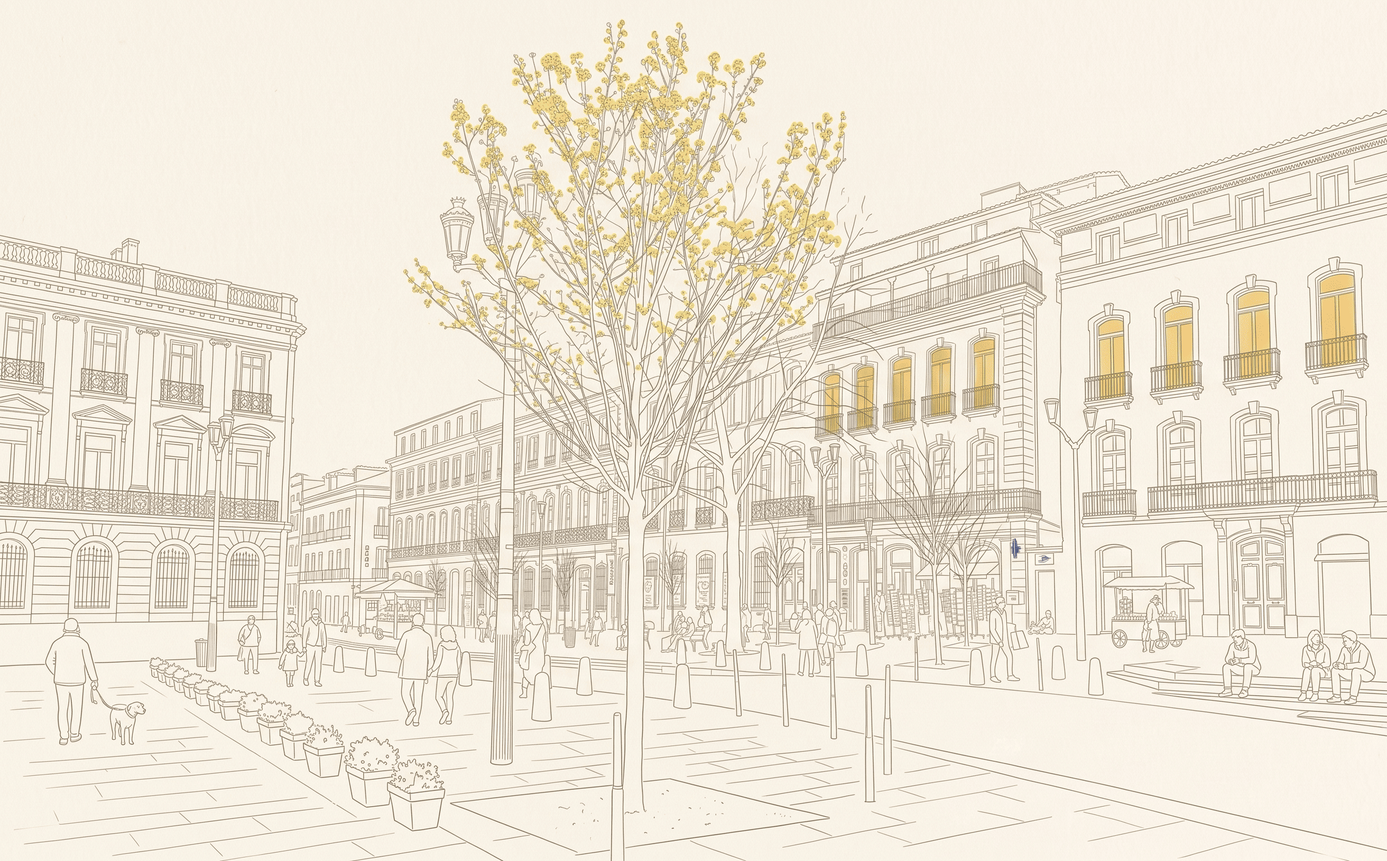
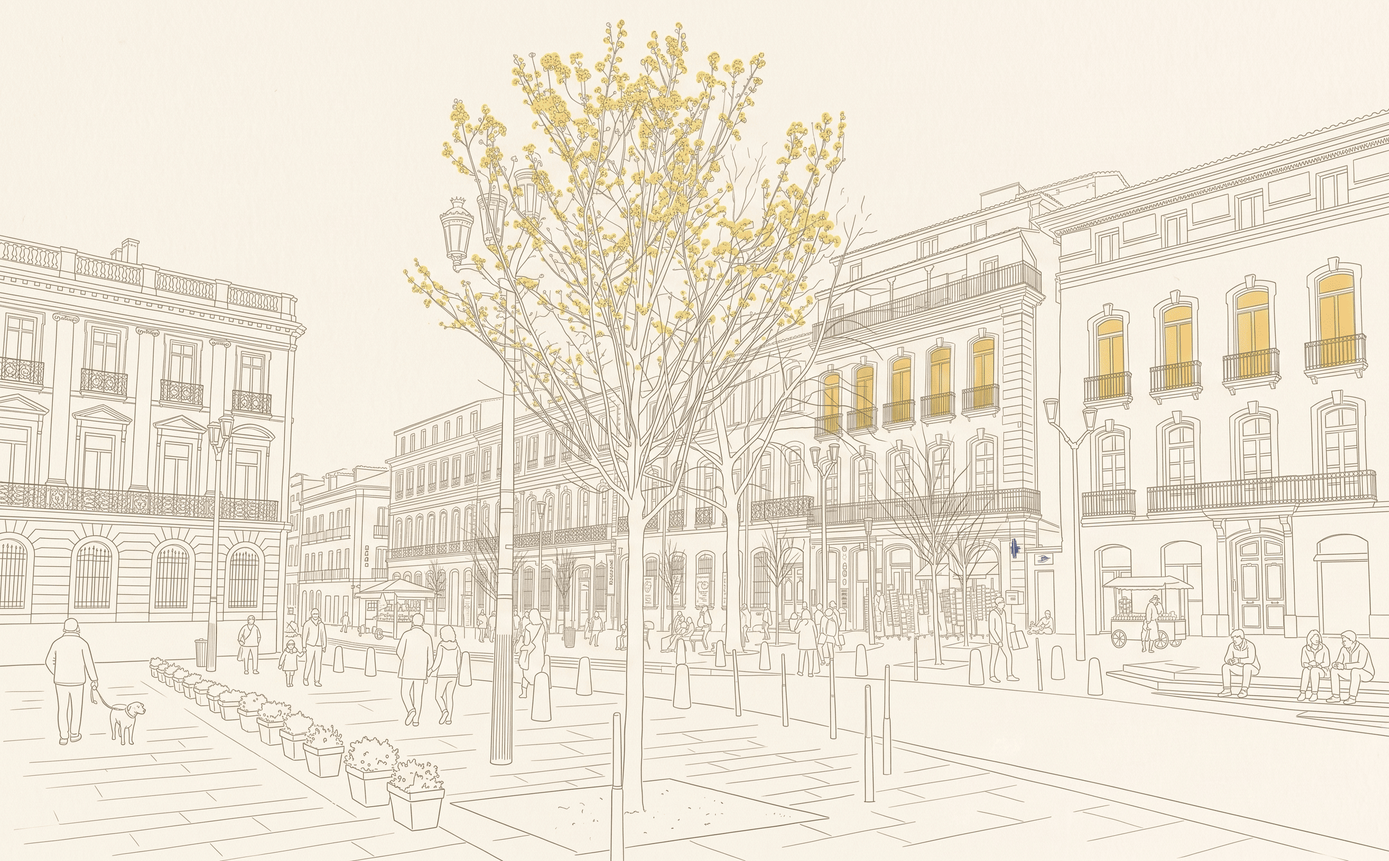
modification de la variable o en f pour le rendu dynamique, test semi production avant infomaniak

diff --git a/app/(site)/qui-suis-je/page.tsx b/app/(site)/qui-suis-je/page.tsx
@@ -6,6 +6,9 @@ import { HomeFooter } from "@/app/components/homepage/HomeFooter";
 import { getSiteNavItems, HomeHeader } from "@/app/components/homepage/HomeHeader";
 import { getPageBySlug, getPageSection } from "@/lib/payload-server";
 
+// Contenu géré dans /admin : rendu à chaque requête pour éviter de figer une ancienne version au build.
+export const revalidate = 0;
+
 export const metadata: Metadata = {
   title: "Qui suis-je — Maître Laïla GSSIME",
   description:

diff --git a/app/(site)/services/page.tsx b/app/(site)/services/page.tsx
@@ -2,6 +2,9 @@ import type { Metadata } from "next";
 import { ServicesPage } from "@/app/components/services/ServicesPage";
 import { buildServicesStructuredData } from "@/app/components/services/services-data";
 
+// Contenu géré dans /admin : rendu à chaque requête pour éviter de figer une ancienne version au build.
+export const revalidate = 0;
+
 const siteUrl = process.env.NEXT_PUBLIC_SITE_URL || "http://localhost:3000";
 
 export const metadata: Metadata = {

diff --git a/app/(site)/blog/[slug]/page.tsx b/app/(site)/blog/[slug]/page.tsx
@@ -20,6 +20,9 @@ import {
 } from "@/lib/payload-server";
 import type { Article as PayloadArticle } from "@/payload-types";
 
+// Contenu géré dans /admin : rendu à chaque requête pour éviter de figer une ancienne version au build.
+export const revalidate = 0;
+
 const categoryLabels: Record<PayloadArticle["category"], string> = {
   famille: "Famille",
   immobilier: "Immobilier",

diff --git a/app/(site)/contact/page.tsx b/app/(site)/contact/page.tsx
@@ -5,6 +5,9 @@ import {
 	CONTACT_FALLBACK,
 } from '@/app/components/contact/contact-data'
 
+// Contenu géré dans /admin : rendu à chaque requête pour éviter de figer une ancienne version au build.
+export const revalidate = 0
+
 const siteUrl = process.env.NEXT_PUBLIC_SITE_URL || 'http://localhost:3000'
 
 export const metadata: Metadata = {

diff --git a/app/(site)/blog/page.tsx b/app/(site)/blog/page.tsx
@@ -7,6 +7,9 @@ import {
   getBlogCategory,
 } from "@/app/components/blog/blog-data";
 
+// Contenu géré dans /admin : rendu à chaque requête pour éviter de figer une ancienne version au build.
+export const revalidate = 0;
+
 export const metadata: Metadata = {
   title: "Blog juridique | Maître Laïla GSSIME — Notaire",
   description:

diff --git a/app/(site)/page.tsx b/app/(site)/page.tsx
@@ -1,5 +1,8 @@
 import { HomePage } from '@/app/components/homepage/HomePage'
 
+// Contenu géré dans /admin : rendu à chaque requête pour éviter de figer une ancienne version au build.
+export const revalidate = 0
+
 const siteUrl = process.env.NEXT_PUBLIC_SITE_URL || 'http://localhost:3000'
 
 export default function Page() {
